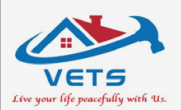
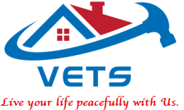
Updated Header

diff --git a/index.html b/index.html
@@ -35,7 +35,7 @@
       <header class="page-head">
         <div class="rd-navbar-wrap">
           <nav class="rd-navbar rd-navbar-secondary" data-stick-up-clone="true" data-layout="rd-navbar-fixed" data-sm-layout="rd-navbar-fixed" data-sm-device-layout="rd-navbar-fixed" data-md-layout="rd-navbar-static" data-md-device-layout="rd-navbar-fixed" data-lg-layout="rd-navbar-static" data-lg-device-layout="rd-navbar-static" data-lg-stick-up-offset="252px">
-            <div class="rd-navbar-inner"><span class="small">Welcome to our service center! We work for you!</span>
+            <div class="rd-navbar-inner"><span class="small">Website still under construction !</span>
               <ul class="list-inline list-inline-lg offset-top-0">
                 <li><a class="ioon icon-sm icon-silver-chalice fa-facebook" href="#"></a></li>
                 <li><a class="ioon icon-sm icon-silver-chalice fa-twitter" href="#"></a></li>
@@ -52,7 +52,9 @@
               </div>   
               <div class="rd-navbar-collapse animated">
                 <div class="rd-navbar-collapse-items">
-                  <ul class="list-inline">
+                  <ul class="list-inline text-center text-xl-right">
+                    <li><div class="unit-left" style="display: flex; align-items: center; justify-content: center;"><img src="images/Icon_footer.png" alt="Embelem" width="170px"></div></li>
+                    <li><div class="unit-left" style="display: flex;"><img src="images/Embelem.png" alt="Embelem" width="100px"></div></li>
                     <li>
                       <div class="unit-right flex-row unit-spacing-xs">
                         <div class="unit-left"><span class="icon icon-primary fa-phone"></span></div>
@@ -80,9 +82,9 @@
                 <!-- RD Navbar Nav-->
                 <ul class="rd-navbar-nav .rd-navbar--has-dropdown">
                   <li class="active"><a href="index.html">Home</a></li>
-                  <li><a href="#">About Us</a></li>
+                  <li><a href="#about">About Us</a></li>
                   <li>
-                    <a href = "#" >Our Services</a>
+                    <a href = "#" >Packages</a>
                     <ul class="rd-navbar-dropdown">
                       <li><a href="#">Standard</a></li>
                       <li><a href="#">Plus</a></li>
@@ -97,6 +99,11 @@
                       <li><a href="#">Plastering Services</a></li>
                       <li><a href="#">Air Conditioner Repair</a></li>
                       <li><a href="#">Building Maintenance</a></li>
+                      <li><a href="#">RO Water Service</a></li>
+                      <li><a href="#">False Ceiling</a></li>
+                      <li><a href="#">Wall Paper Service</a></li>
+                      <li><a href="#">Wood Flooring</a></li>
+                      <li><a href="#">Carpentry</a></li>
                     </ul>
                   </li>
                   <li><a href="#">Contact Us</a></li>
@@ -189,7 +196,7 @@
               </div>
             </div>
           </div>
-          <div class="row justify-content-sm-center offset-top-60 offset-md-top-125 offset-lg-top-150">
+          <div class="row justify-content-sm-center offset-top-60 offset-md-top-125 offset-lg-top-150" id="about">
             <div class="col-xl-12 col-md-8 col-lg-9">
               <div class="row row-30 align-items-xl-center justify-content-xl-between">
                 <div class="col-xl-6"><img class="img-responsive" src="images/Plumbing-Pump Main. (2).JPG" alt="" width="735" height="460"/>
@@ -210,7 +217,6 @@
           <div class="row justify-content-sm-center text-center">
             <div class="col-sm-10 col-md-8 col-lg-6">
               <h2 class="text-white"><span class="small text-white">affordable repair solutions</span>High-Quality and Friendly<br class="d-none d-lg-block">	Services at Fair Prices
-              </h2><a class="btn btn-default btn-form btn-default-white" href="contacts.html">Contact us</a>
             </div>
           </div>
         </div>
